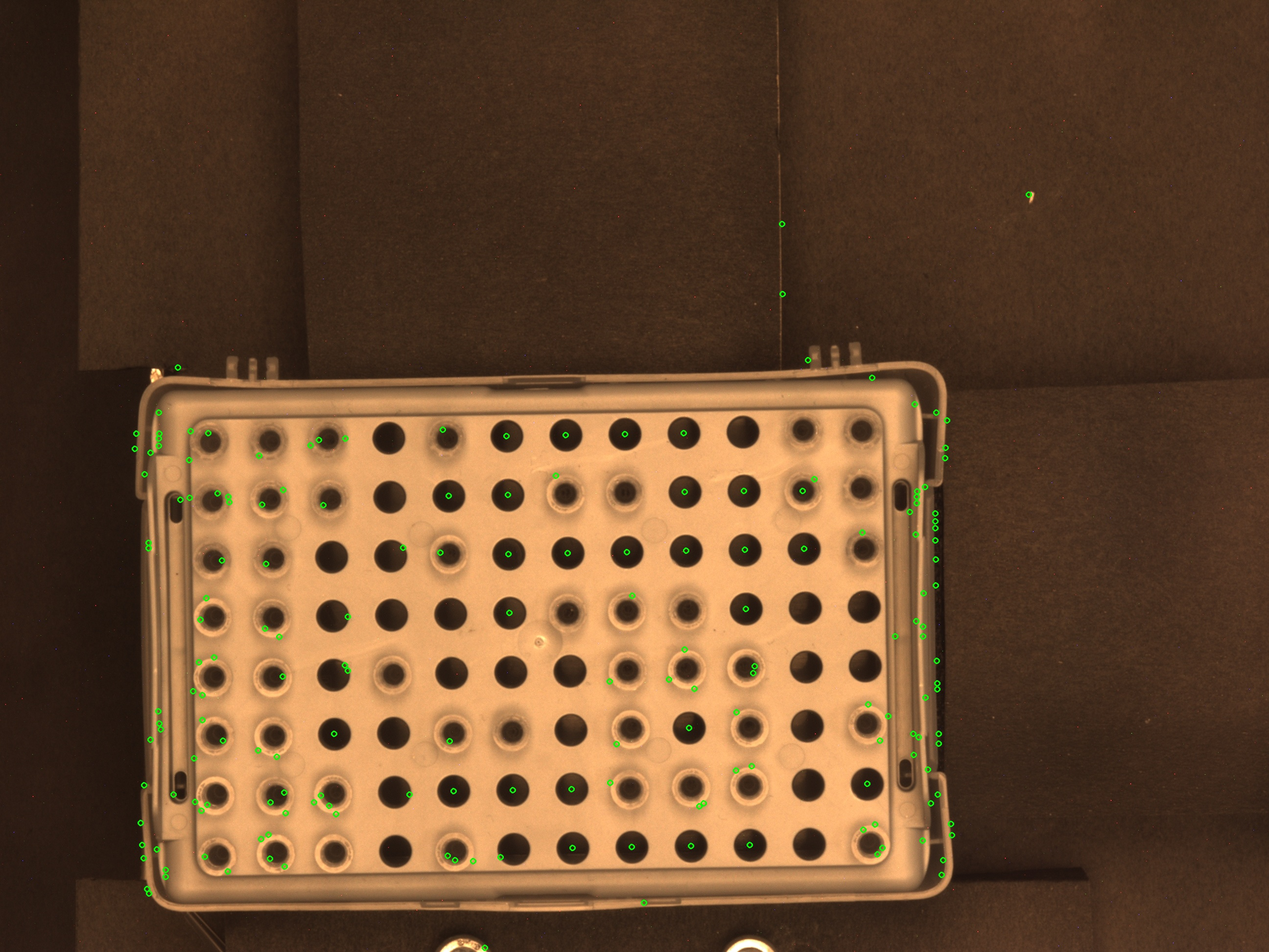
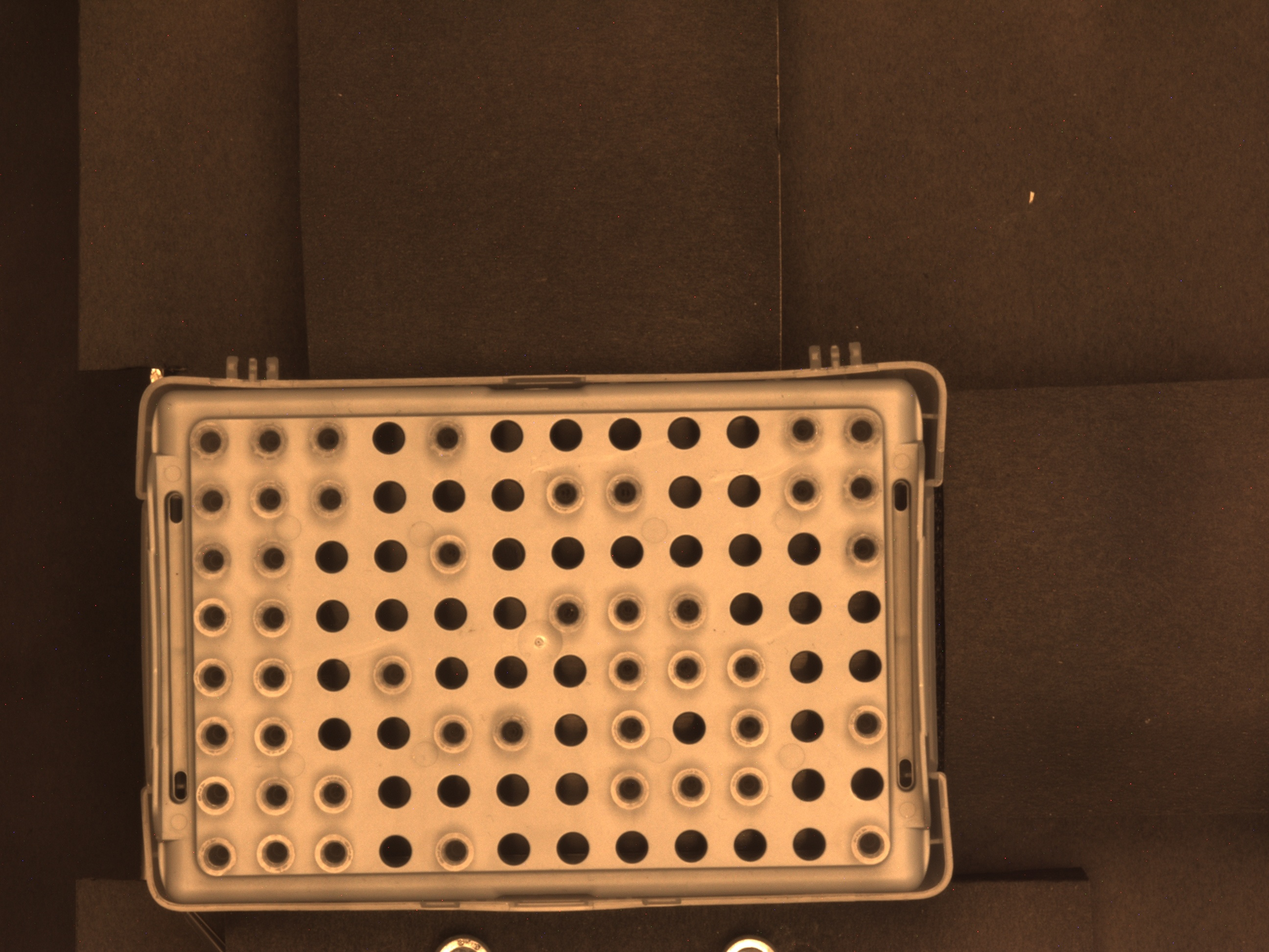
Switch to Hough Circle Detection for better tip detection

Changed region(s): [[0.7188, 0.7716, 0.75, 0.8025], [0.7188, 0.6481, 0.75, 0.679], [0.7188, 0.5247, 0.75, 0.5556]]

diff --git a/src/tip_detector.py b/src/tip_detector.py
@@ -8,7 +8,7 @@ class TipDetector:
         self.detected_tips = []
     
     def detect(self, image):
-        """Detect tips by analyzing brightness differences and convexity"""
+        """Detect tips using Hough Circle Detection on difference image"""
         # Convert to grayscale
         gray_tips = cv2.cvtColor(image, cv2.COLOR_BGR2GRAY)
         gray_empty = cv2.cvtColor(self.empty_box, cv2.COLOR_BGR2GRAY)
@@ -17,40 +17,32 @@ class TipDetector:
         diff = gray_tips.astype(float) - gray_empty.astype(float)
         diff = np.clip(diff, 0, 255).astype(np.uint8)
         
-        # Apply threshold - only keep bright differences (tips are lighter)
-        _, thresh = cv2.threshold(diff, 20, 255, cv2.THRESH_BINARY)
+        # Apply Gaussian blur for circle detection
+        blurred = cv2.GaussianBlur(diff, (9, 9), 2)
         
-        # Morphological operations to clean up
-        kernel = cv2.getStructuringElement(cv2.MORPH_ELLIPSE, (7, 7))
-        thresh = cv2.morphologyEx(thresh, cv2.MORPH_CLOSE, kernel)
-        thresh = cv2.morphologyEx(thresh, cv2.MORPH_OPEN, kernel)
-        
-        # Find contours
-        contours, _ = cv2.findContours(thresh, cv2.RETR_EXTERNAL, cv2.CHAIN_APPROX_SIMPLE)
+        # Detect circles using Hough Circle Detection
+        circles = cv2.HoughCircles(
+            blurred,
+            cv2.HOUGH_GRADIENT,
+            dp=1,
+            minDist=50,
+            param1=30,
+            param2=20,
+            minRadius=15,
+            maxRadius=35
+        )
         
         tips = []
-        for contour in contours:
-            area = cv2.contourArea(contour)
-            
-            # Filter by size - tips should be similar size to holes
-            if 100 < area < 600:
-                # Fit circle to contour
-                (x, y), radius = cv2.minEnclosingCircle(contour)
-                
-                # Check circularity
-                perimeter = cv2.arcLength(contour, True)
-                if perimeter > 0:
-                    circularity = 4 * np.pi * area / (perimeter ** 2)
-                    
-                    # Good circles with high circularity
-                    if circularity > 0.6:
-                        tips.append({
-                            'x': int(x),
-                            'y': int(y),
-                            'radius': int(radius),
-                            'area': area,
-                            'circularity': circularity
-                        })
+        if circles is not None:
+            circles = np.uint16(np.around(circles))
+            for circle in circles[0, :]:
+                x, y, radius = circle
+                tips.append({
+                    'x': int(x),
+                    'y': int(y),
+                    'radius': int(radius),
+                    'area': np.pi * radius ** 2
+                })
         
         self.detected_tips = tips
         return tips

diff --git a/test_debug.py b/test_debug.py
@@ -1,0 +1,30 @@
+import cv2
+import numpy as np
+
+gray_tips = cv2.cvtColor(cv2.imread('data/test_images/tips_sample.bmp'), cv2.COLOR_BGR2GRAY)
+gray_empty = cv2.cvtColor(cv2.imread('data/empty_box.bmp'), cv2.COLOR_BGR2GRAY)
+
+diff = gray_tips.astype(float) - gray_empty.astype(float)
+diff = np.clip(diff, 0, 255).astype(np.uint8)
+
+_, thresh = cv2.threshold(diff, 10, 255, cv2.THRESH_BINARY)
+
+kernel = cv2.getStructuringElement(cv2.MORPH_ELLIPSE, (7, 7))
+thresh = cv2.morphologyEx(thresh, cv2.MORPH_CLOSE, kernel)
+thresh = cv2.morphologyEx(thresh, cv2.MORPH_OPEN, kernel)
+
+contours, _ = cv2.findContours(thresh, cv2.RETR_EXTERNAL, cv2.CHAIN_APPROX_SIMPLE)
+
+good_contours = []
+for contour in contours:
+    area = cv2.contourArea(contour)
+    if 200 < area < 500:
+        perimeter = cv2.arcLength(contour, True)
+        if perimeter > 0:
+            circularity = 4 * np.pi * area / (perimeter ** 2)
+            good_contours.append({'area': area, 'circularity': circularity})
+
+print(f"Found {len(good_contours)} good contours (area 200-500)")
+if good_contours:
+    circularities = [c['circularity'] for c in good_contours]
+    print(f"Circularity min: {min(circularities):.2f}, max: {max(circularities):.2f}, mean: {np.mean(circularities):.2f}")
